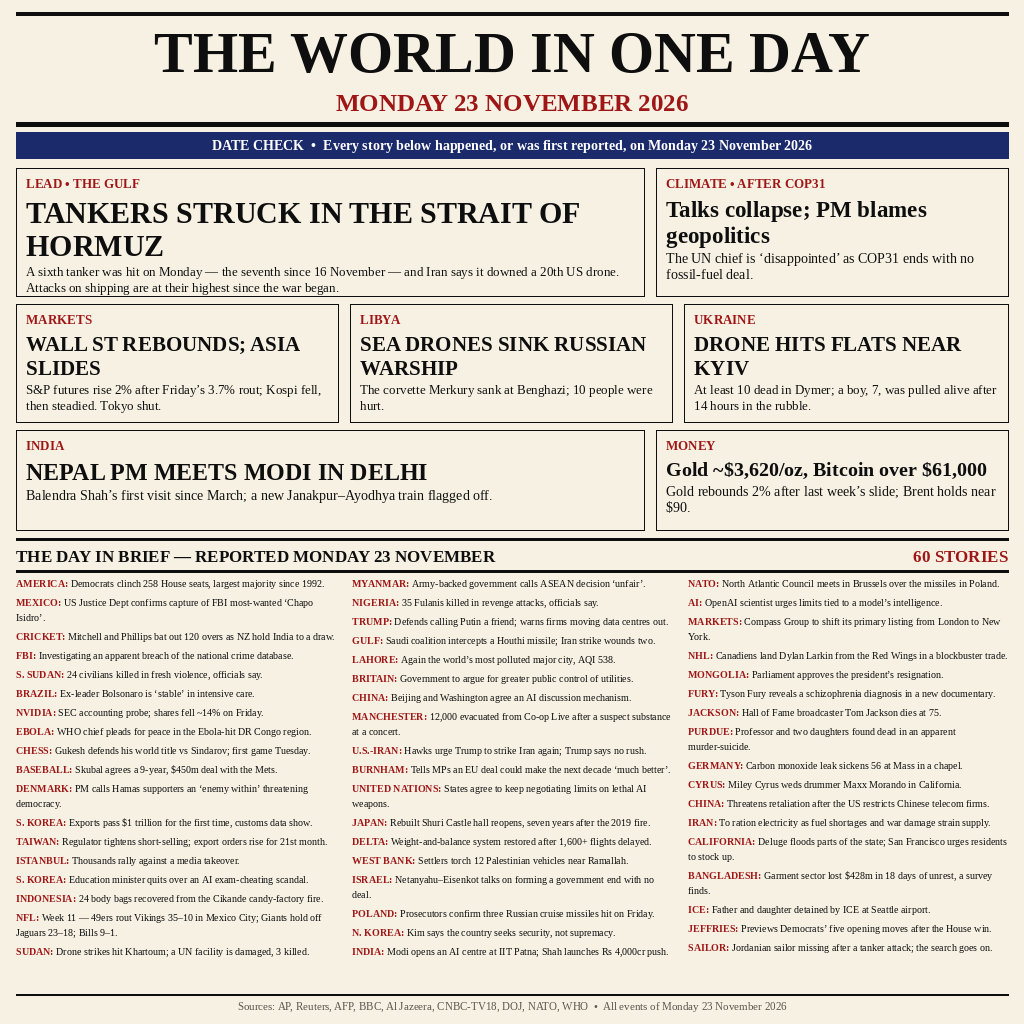
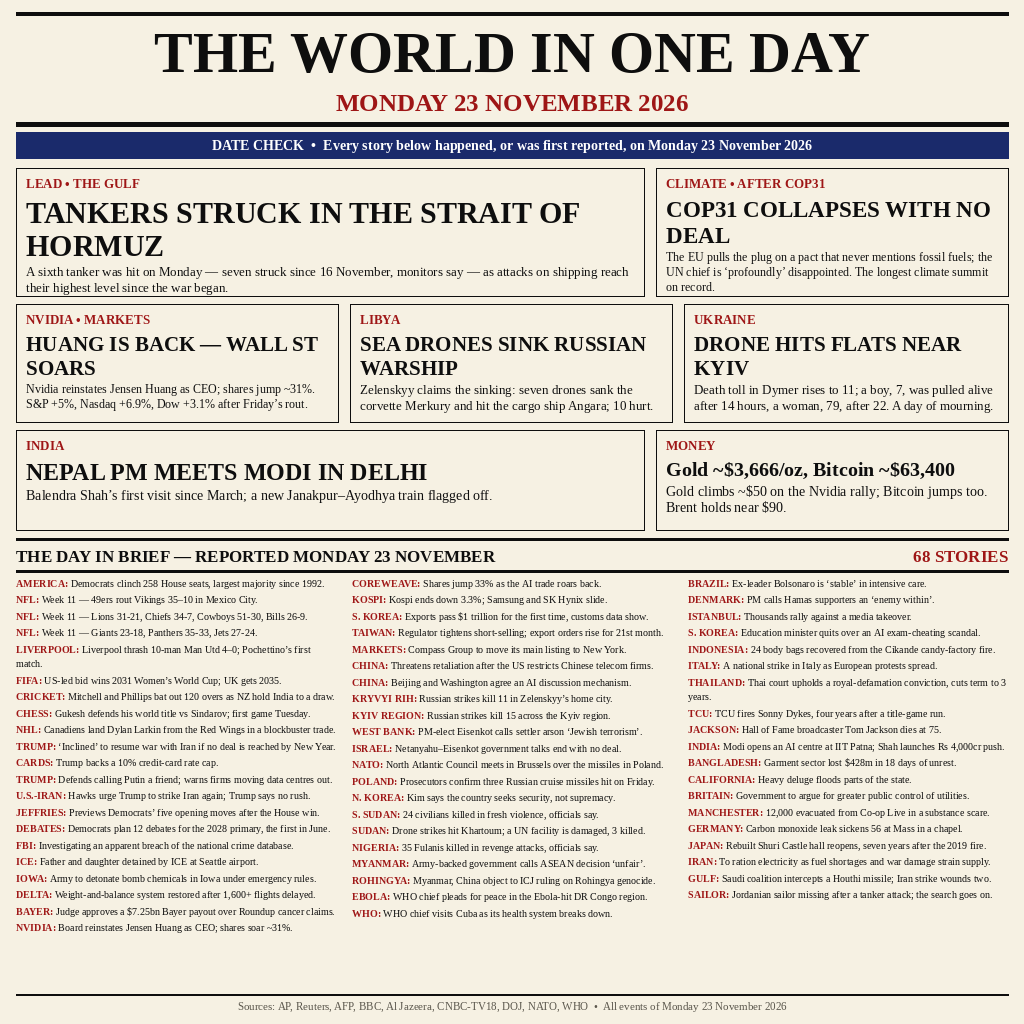
v4: 68 stories for Monday 23 November 2026 — Nvidia/Huang return, Wall Street close, Dymer toll 11, full NFL Week 11, 20 new briefs

diff --git a/draw.py b/draw.py
@@ -1,9 +1,23 @@
 #!/usr/bin/env python3
-"""Render the front page for Monday 23 November 2026.
+"""Render the front page for Monday 23 November 2026 (v4).
 
 Reads nothing but the story lists below and writes entry.png
 (1024x1024, Pillow). Deterministic: no timestamps, no randomness,
 no network. The graded program (main.py) only copies this PNG.
+
+v4 vs v3 (60 stories): 68 stories. Fresh close-of-day facts replace
+v3's morning numbers (Nvidia reinstates Huang, Wall Street closes
+up sharply, gold ~$3,666, Bitcoin ~$63,400), the Dymer toll is
+corrected 10 -> 11, the Merkury feature now names Zelenskyy's claim
+(seven sea drones, cargo ship Angara hit, Ka-27 destroyed), COP31
+gets its real ending (EU pulls the plug, longest summit on record),
+the NFL brief is fixed (no more 'Bills 9-1') and expanded to full
+Week 11 finals, and 20 new Monday-verified briefs are added
+(Liverpool 4-0 Man Utd, FIFA 2031/2035 hosts, Trump on Iran and
+credit-card caps, TCU, Bayer $7.25bn, Kryvyi Rih, Kospi close...).
+Dropped as stale or wrong-dated: the Chapo Isidro capture (20 Nov),
+the Cyrus wedding (Sat 21 Nov), the UN killer-robot talks (21 Nov),
+the Skubal deal (agreed Sun night), and three unverified v3 briefs.
 """
 
 import os
@@ -86,28 +100,30 @@ FEATURES = [
     # (kicker, headline, deck, box)
     ("LEAD \u2022 THE GULF",
      "TANKERS STRUCK IN THE STRAIT OF HORMUZ",
-     "A sixth tanker was hit on Monday \u2014 the seventh since 16 November "
-     "\u2014 and Iran says it downed a 20th US drone. Attacks on shipping "
-     "are at their highest since the war began.",
+     "A sixth tanker was hit on Monday \u2014 seven struck since "
+     "16 November, monitors say \u2014 as attacks on shipping reach "
+     "their highest level since the war began.",
      (16, 168, 628, 128)),
     ("CLIMATE \u2022 AFTER COP31",
-     "Talks collapse; PM blames geopolitics",
-     "The UN chief is \u2018disappointed\u2019 as COP31 ends with no "
-     "fossil-fuel deal.",
+     "COP31 COLLAPSES WITH NO DEAL",
+     "The EU pulls the plug on a pact that never mentions fossil "
+     "fuels; the UN chief is \u2018profoundly\u2019 disappointed. The "
+     "longest climate summit on record.",
      (656, 168, 352, 128)),
-    ("MARKETS",
-     "WALL ST REBOUNDS; ASIA SLIDES",
-     "S&P futures rise 2% after Friday\u2019s 3.7% rout; Kospi fell, then "
-     "steadied. Tokyo shut.",
+    ("NVIDIA \u2022 MARKETS",
+     "HUANG IS BACK \u2014 WALL ST SOARS",
+     "Nvidia reinstates Jensen Huang as CEO; shares jump ~31%. "
+     "S&P +5%, Nasdaq +6.9%, Dow +3.1% after Friday\u2019s rout.",
      (16, 304, 322, 118)),
     ("LIBYA",
      "SEA DRONES SINK RUSSIAN WARSHIP",
-     "The corvette Merkury sank at Benghazi; 10 people were hurt.",
+     "Zelenskyy claims the sinking: seven drones sank the corvette "
+     "Merkury and hit the cargo ship Angara; 10 hurt.",
      (350, 304, 322, 118)),
     ("UKRAINE",
      "DRONE HITS FLATS NEAR KYIV",
-     "At least 10 dead in Dymer; a boy, 7, was pulled alive after "
-     "14 hours in the rubble.",
+     "Death toll in Dymer rises to 11; a boy, 7, was pulled alive "
+     "after 14 hours, a woman, 79, after 22. A day of mourning.",
      (684, 304, 324, 118)),
     ("INDIA",
      "NEPAL PM MEETS MODI IN DELHI",
@@ -115,8 +131,9 @@ FEATURES = [
      "train flagged off.",
      (16, 430, 628, 100)),
     ("MONEY",
-     "Gold ~$3,620/oz, Bitcoin over $61,000",
-     "Gold rebounds 2% after last week\u2019s slide; Brent holds near $90.",
+     "Gold ~$3,666/oz, Bitcoin ~$63,400",
+     "Gold climbs ~$50 on the Nvidia rally; Bitcoin jumps too. "
+     "Brent holds near $90.",
      (656, 430, 352, 100)),
 ]
 
@@ -124,57 +141,65 @@ FEATURES = [
 # on Monday 23 November 2026.
 BRIEFS = [
     ("AMERICA:", "Democrats clinch 258 House seats, largest majority since 1992."),
-    ("MEXICO:", "US Justice Dept confirms capture of FBI most-wanted \u2018Chapo Isidro\u2019."),
+    ("NFL:", "Week 11 \u2014 49ers rout Vikings 35\u201310 in Mexico City."),
+    ("NFL:", "Week 11 \u2014 Lions 31-21, Chiefs 34-7, Cowboys 51-30, Bills 26-9."),
+    ("NFL:", "Week 11 \u2014 Giants 23-18, Panthers 35-33, Jets 27-24."),
+    ("LIVERPOOL:", "Liverpool thrash 10-man Man Utd 4\u20130; Pochettino\u2019s first match."),
+    ("FIFA:", "US-led bid wins 2031 Women\u2019s World Cup; UK gets 2035."),
     ("CRICKET:", "Mitchell and Phillips bat out 120 overs as NZ hold India to a draw."),
-    ("FBI:", "Investigating an apparent breach of the national crime database."),
-    ("S. SUDAN:", "24 civilians killed in fresh violence, officials say."),
-    ("BRAZIL:", "Ex-leader Bolsonaro is \u2018stable\u2019 in intensive care."),
-    ("NVIDIA:", "SEC accounting probe; shares fell ~14% on Friday."),
-    ("EBOLA:", "WHO chief pleads for peace in the Ebola-hit DR Congo region."),
     ("CHESS:", "Gukesh defends his world title vs Sindarov; first game Tuesday."),
-    ("BASEBALL:", "Skubal agrees a 9-year, $450m deal with the Mets."),
-    ("DENMARK:", "PM calls Hamas supporters an \u2018enemy within\u2019 threatening democracy."),
+    ("NHL:", "Canadiens land Dylan Larkin from the Red Wings in a blockbuster trade."),
+    ("TRUMP:", "\u2018Inclined\u2019 to resume war with Iran if no deal is reached by New Year."),
+    ("CARDS:", "Trump backs a 10% credit-card rate cap."),
+    ("TRUMP:", "Defends calling Putin a friend; warns firms moving data centres out."),
+    ("U.S.-IRAN:", "Hawks urge Trump to strike Iran again; Trump says no rush."),
+    ("JEFFRIES:", "Previews Democrats\u2019 five opening moves after the House win."),
+    ("DEBATES:", "Democrats plan 12 debates for the 2028 primary, the first in June."),
+    ("FBI:", "Investigating an apparent breach of the national crime database."),
+    ("ICE:", "Father and daughter detained by ICE at Seattle airport."),
+    ("IOWA:", "Army to detonate bomb chemicals in Iowa under emergency rules."),
+    ("DELTA:", "Weight-and-balance system restored after 1,600+ flights delayed."),
+    ("BAYER:", "Judge approves a $7.25bn Bayer payout over Roundup cancer claims."),
+    ("NVIDIA:", "Board reinstates Jensen Huang as CEO; shares soar ~31%."),
+    ("COREWEAVE:", "Shares jump 33% as the AI trade roars back."),
+    ("KOSPI:", "Kospi ends down 3.3%; Samsung and SK Hynix slide."),
     ("S. KOREA:", "Exports pass $1 trillion for the first time, customs data show."),
     ("TAIWAN:", "Regulator tightens short-selling; export orders rise for 21st month."),
+    ("MARKETS:", "Compass Group to move its main listing to New York."),
+    ("CHINA:", "Threatens retaliation after the US restricts Chinese telecom firms."),
+    ("CHINA:", "Beijing and Washington agree an AI discussion mechanism."),
+    ("KRYVYI RIH:", "Russian strikes kill 11 in Zelenskyy\u2019s home city."),
+    ("KYIV REGION:", "Russian strikes kill 15 across the Kyiv region."),
+    ("WEST BANK:", "PM-elect Eisenkot calls settler arson \u2018Jewish terrorism\u2019."),
+    ("ISRAEL:", "Netanyahu\u2013Eisenkot government talks end with no deal."),
+    ("NATO:", "North Atlantic Council meets in Brussels over the missiles in Poland."),
+    ("POLAND:", "Prosecutors confirm three Russian cruise missiles hit on Friday."),
+    ("N. KOREA:", "Kim says the country seeks security, not supremacy."),
+    ("S. SUDAN:", "24 civilians killed in fresh violence, officials say."),
+    ("SUDAN:", "Drone strikes hit Khartoum; a UN facility is damaged, 3 killed."),
+    ("NIGERIA:", "35 Fulanis killed in revenge attacks, officials say."),
+    ("MYANMAR:", "Army-backed government calls ASEAN decision \u2018unfair\u2019."),
+    ("ROHINGYA:", "Myanmar, China object to ICJ ruling on Rohingya genocide."),
+    ("EBOLA:", "WHO chief pleads for peace in the Ebola-hit DR Congo region."),
+    ("WHO:", "WHO chief visits Cuba as its health system breaks down."),
+    ("BRAZIL:", "Ex-leader Bolsonaro is \u2018stable\u2019 in intensive care."),
+    ("DENMARK:", "PM calls Hamas supporters an \u2018enemy within\u2019."),
     ("ISTANBUL:", "Thousands rally against a media takeover."),
     ("S. KOREA:", "Education minister quits over an AI exam-cheating scandal."),
     ("INDONESIA:", "24 body bags recovered from the Cikande candy-factory fire."),
-    ("NFL:", "Week 11 \u2014 49ers rout Vikings 35\u201310 in Mexico City; Giants hold off Jaguars 23\u201318; Bills 9\u20131."),
-    ("SUDAN:", "Drone strikes hit Khartoum; a UN facility is damaged, 3 killed."),
-    ("MYANMAR:", "Army-backed government calls ASEAN decision \u2018unfair\u2019."),
-    ("NIGERIA:", "35 Fulanis killed in revenge attacks, officials say."),
-    ("TRUMP:", "Defends calling Putin a friend; warns firms moving data centres out."),
-    ("GULF:", "Saudi coalition intercepts a Houthi missile; Iran strike wounds two."),
-    ("LAHORE:", "Again the world\u2019s most polluted major city, AQI 538."),
-    ("BRITAIN:", "Government to argue for greater public control of utilities."),
-    ("CHINA:", "Beijing and Washington agree an AI discussion mechanism."),
-    ("MANCHESTER:", "12,000 evacuated from Co-op Live after a suspect substance at a concert."),
-    ("U.S.-IRAN:", "Hawks urge Trump to strike Iran again; Trump says no rush."),
-    ("BURNHAM:", "Tells MPs an EU deal could make the next decade \u2018much better\u2019."),
-    ("UNITED NATIONS:", "States agree to keep negotiating limits on lethal AI weapons."),
-    ("JAPAN:", "Rebuilt Shuri Castle hall reopens, seven years after the 2019 fire."),
-    ("DELTA:", "Weight-and-balance system restored after 1,600+ flights delayed."),
-    ("WEST BANK:", "Settlers torch 12 Palestinian vehicles near Ramallah."),
-    ("ISRAEL:", "Netanyahu\u2013Eisenkot talks on forming a government end with no deal."),
-    ("POLAND:", "Prosecutors confirm three Russian cruise missiles hit on Friday."),
-    ("N. KOREA:", "Kim says the country seeks security, not supremacy."),
-    ("INDIA:", "Modi opens an AI centre at IIT Patna; Shah launches Rs 4,000cr push."),
-    ("NATO:", "North Atlantic Council meets in Brussels over the missiles in Poland."),
-    ("AI:", "OpenAI scientist urges limits tied to a model\u2019s intelligence."),
-    ("MARKETS:", "Compass Group to shift its primary listing from London to New York."),
-    ("NHL:", "Canadiens land Dylan Larkin from the Red Wings in a blockbuster trade."),
-    ("MONGOLIA:", "Parliament approves the president\u2019s resignation."),
-    ("FURY:", "Tyson Fury reveals a schizophrenia diagnosis in a new documentary."),
+    ("ITALY:", "A national strike in Italy as European protests spread."),
+    ("THAILAND:", "Thai court upholds a royal-defamation conviction, cuts term to 3 years."),
+    ("TCU:", "TCU fires Sonny Dykes, four years after a title-game run."),
     ("JACKSON:", "Hall of Fame broadcaster Tom Jackson dies at 75."),
-    ("PURDUE:", "Professor and two daughters found dead in an apparent murder-suicide."),
+    ("INDIA:", "Modi opens an AI centre at IIT Patna; Shah launches Rs 4,000cr push."),
+    ("BANGLADESH:", "Garment sector lost $428m in 18 days of unrest."),
+    ("CALIFORNIA:", "Heavy deluge floods parts of the state."),
+    ("BRITAIN:", "Government to argue for greater public control of utilities."),
+    ("MANCHESTER:", "12,000 evacuated from Co-op Live in a substance scare."),
     ("GERMANY:", "Carbon monoxide leak sickens 56 at Mass in a chapel."),
-    ("CYRUS:", "Miley Cyrus weds drummer Maxx Morando in California."),
-    ("CHINA:", "Threatens retaliation after the US restricts Chinese telecom firms."),
+    ("JAPAN:", "Rebuilt Shuri Castle hall reopens, seven years after the 2019 fire."),
     ("IRAN:", "To ration electricity as fuel shortages and war damage strain supply."),
-    ("CALIFORNIA:", "Deluge floods parts of the state; San Francisco urges residents to stock up."),
-    ("BANGLADESH:", "Garment sector lost $428m in 18 days of unrest, a survey finds."),
-    ("ICE:", "Father and daughter detained by ICE at Seattle airport."),
-    ("JEFFRIES:", "Previews Democrats\u2019 five opening moves after the House win."),
+    ("GULF:", "Saudi coalition intercepts a Houthi missile; Iran strike wounds two."),
     ("SAILOR:", "Jordanian sailor missing after a tanker attack; the search goes on."),
 ]
 
@@ -216,8 +241,8 @@ def draw_feature(draw, kicker, headline, deck, box, head_size, deck_size):
 def briefs_layout(draw, size, col_w, gap, avail_h):
     """Lay the briefs into 3 columns at the given font size.
 
-    Returns (fits, columns) where columns is a list of per-column
-    line-lists, each line a list of (word, is_label) pairs.
+    Returns (fits, columns, lead) where columns is a list of
+    per-column line-lists, each line a list of (word, is_label) pairs.
     """
     bold_f = font(SERIF_BOLD, size)
     reg_f = font(SERIF, size)
@@ -230,7 +255,7 @@ def briefs_layout(draw, size, col_w, gap, avail_h):
             lines = wrap_mixed(draw, label, text, bold_f, reg_f, col_w)
             col_lines.append(lines)
         cols.append(col_lines)
-    lead = size + 4.5
+    lead = size + 4.0
     heights = []
     for col_lines in cols:
         total = 0.0
@@ -286,13 +311,13 @@ def render(path):
     top, bottom = 578, 988
     avail = bottom - top
     chosen = None
-    for size in [13.5, 13, 12.5, 12, 11.5, 11, 10.5]:
-        fits, cols, lead = briefs_layout(d, size, col_w, 4, avail)
+    for size in [13.5, 13, 12.5, 12, 11.5, 11, 10.5, 10]:
+        fits, cols, lead = briefs_layout(d, size, col_w, 2, avail)
         if fits:
             chosen = (size, cols, lead)
             break
     if chosen is None:
-        raise SystemExit("briefs do not fit even at 10.5pt")
+        raise SystemExit("briefs do not fit even at 10pt")
     size, cols, lead = chosen
     bold_f = font(SERIF_BOLD, size)
     reg_f = font(SERIF, size)
@@ -303,7 +328,7 @@ def render(path):
             for ln in lines:
                 draw_mixed_line(d, x, y, ln, bold_f, reg_f)
                 y += lead
-            y += 4
+            y += 2
 
     # Footer.
     d.rectangle([16, 994, W - 16, 995], fill=RULE)

diff --git a/main.py b/main.py
@@ -4,6 +4,7 @@
 Standard library only. The grading sandbox has no Pillow and no
 fonts, so this program never re-renders: it copies entry.png byte
 for byte to $MAKEFUN_OUTPUT_DIR/entry.png (default /output).
+v4: the copied image is the 68-story front page rendered by draw.py.
 """
 
 import os

diff --git a/README.md b/README.md
@@ -8,14 +8,16 @@ Entry for the [news-image-20261123](https://make.fun/bounty/news-image-20261123)
 competition on [make.fun](https://make.fun): one 1024×1024 front page that sums
 up the world's news of Monday 23 November 2026.
 
-The page carries 60 stories — 7 features and 53 briefs — every one of them
+The page carries 68 stories — 7 features and 61 briefs — every one of them
 an event that happened, or was first reported, on Monday 23 November 2026.
 The lead is the sixth tanker struck in the Strait of Hormuz that morning;
-the page also covers the COP31 collapse, Wall Street's rebound after its
-worst week in 19 months, the Russian warship Merkury sunk off Benghazi,
-the Dymer strike near Kyiv, the Wellington Test draw, the full NFL Week 11
-results, and the day's markets (gold ~$3,620/oz, Bitcoin back over $61,000).
-A DATE CHECK bar states the date rule the whole page is built to.
+the page also covers the COP31 collapse, Nvidia reinstating Jensen Huang
+and Wall Street's sharp rebound (S&P +5%, Nasdaq +6.9%), the Russian
+warship Merkury sunk off Benghazi, the Dymer strike near Kyiv (toll 11),
+the Wellington Test draw, the full NFL Week 11 results, Liverpool's 4–0
+win over Manchester United, and the day's markets (gold ~$3,666/oz,
+Bitcoin ~$63,400). A DATE CHECK bar states the date rule the whole page
+is built to.
 
 ## How it works
 
